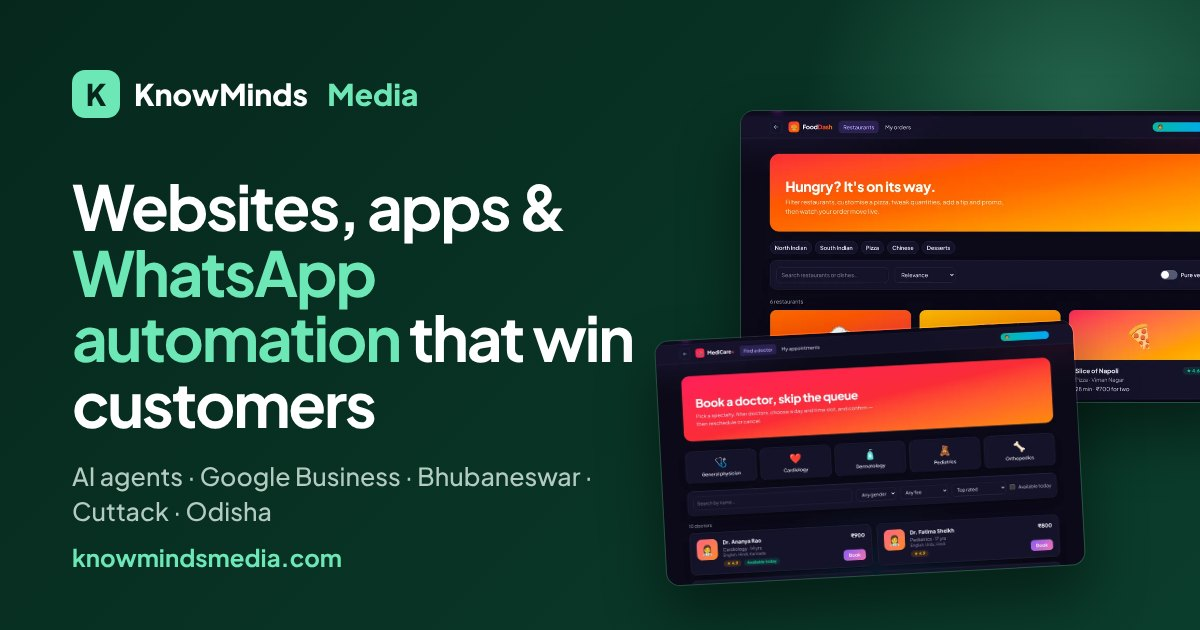
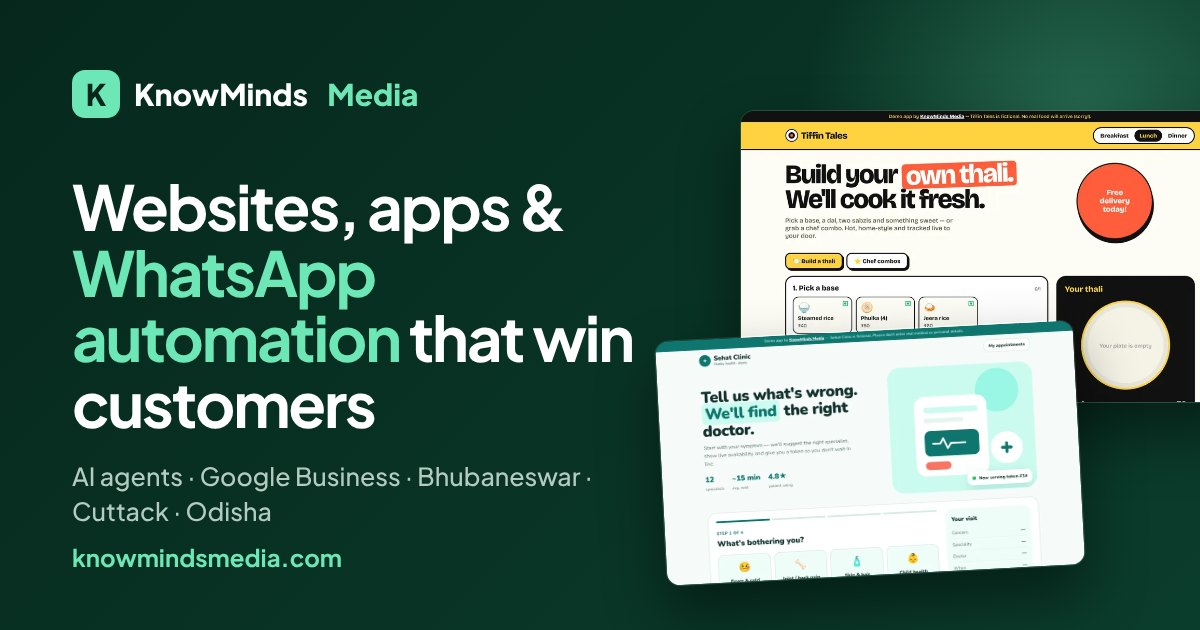
Gallery: link 12 new demo apps on subdomains; new screenshots and share image
Claude-Session: https://claude.ai/code/session_016JypAg9DMv7GkyKqwKCMux

Changed region(s): [[0.5242, 0.181, 1.0, 0.9349]]

diff --git a/index.html b/index.html
@@ -73,8 +73,8 @@
     </ul>
   </div>
   <div class="collage" id="collage">
-    <div class="shot s1"><img src="/img/food.webp" alt="Food ordering web app built by KnowMinds Media" width="960" height="561" fetchpriority="high"></div>
-    <div class="shot s2"><img src="/img/clinic.webp" alt="Doctor appointment booking app built by KnowMinds Media" width="960" height="561"></div>
+    <div class="shot s1"><img src="/img/p-food.webp" alt="Tiffin Tales food ordering demo app by KnowMinds Media" width="960" height="561" fetchpriority="high"></div>
+    <div class="shot s2"><img src="/img/p-clinic.webp" alt="Sehat Clinic appointment booking demo app by KnowMinds Media" width="960" height="561"></div>
     <div class="badge"><b>24×7</b><small>enquiries<br>answered</small></div>
     <div class="toast" aria-hidden="true"><span class="tick">✓</span><span class="toast-txt">New booking confirmed</span></div>
   </div>
@@ -116,59 +116,59 @@
     <div class="feature-top">
       <div>
         <span class="label">Project gallery</span>
-        <h3>12 of our web app projects — click any to take a closer look</h3>
-        <p class="desc">Booking, search, ordering and dashboard apps across healthcare, real estate, restaurants, retail, travel and more.</p>
+        <h3>12 live demo apps — click any to try it</h3>
+        <p class="desc">Each one is a working app with its own design and flow — book, order, pay, track. Open any of them and try it yourself.</p>
       </div>
     </div>
     <div class="apps">
-      <button type="button" class="app" data-preview>
-        <div class="pic"><img src="/img/clinic.webp" alt="MediCare+ — Doctor appointment booking" loading="lazy" width="960" height="561"></div>
-        <div class="meta"><div><span class="ptag">Healthcare</span><h4>MediCare+</h4><small>Doctor appointment booking</small></div><span class="go"><svg viewBox="0 0 24 24" fill="none" stroke="currentColor" stroke-width="2.4" stroke-linecap="round" stroke-linejoin="round"><path d="M7 17 17 7M8 7h9v9"/></svg></span></div>
-      </button>
-      <button type="button" class="app" data-preview>
-        <div class="pic"><img src="/img/realestate.webp" alt="HomeNest — Property search, EMI & visit booking" loading="lazy" width="960" height="561"></div>
-        <div class="meta"><div><span class="ptag">Real estate</span><h4>HomeNest</h4><small>Property search, EMI & visit booking</small></div><span class="go"><svg viewBox="0 0 24 24" fill="none" stroke="currentColor" stroke-width="2.4" stroke-linecap="round" stroke-linejoin="round"><path d="M7 17 17 7M8 7h9v9"/></svg></span></div>
-      </button>
-      <button type="button" class="app" data-preview>
-        <div class="pic"><img src="/img/food.webp" alt="FoodDash — Food ordering with live order status" loading="lazy" width="960" height="561"></div>
-        <div class="meta"><div><span class="ptag">Restaurants</span><h4>FoodDash</h4><small>Food ordering with live order status</small></div><span class="go"><svg viewBox="0 0 24 24" fill="none" stroke="currentColor" stroke-width="2.4" stroke-linecap="round" stroke-linejoin="round"><path d="M7 17 17 7M8 7h9v9"/></svg></span></div>
-      </button>
-      <button type="button" class="app" data-preview>
-        <div class="pic"><img src="/img/shop.webp" alt="Nova Shop — Online store with cart & checkout" loading="lazy" width="960" height="561"></div>
-        <div class="meta"><div><span class="ptag">E-commerce</span><h4>Nova Shop</h4><small>Online store with cart & checkout</small></div><span class="go"><svg viewBox="0 0 24 24" fill="none" stroke="currentColor" stroke-width="2.4" stroke-linecap="round" stroke-linejoin="round"><path d="M7 17 17 7M8 7h9v9"/></svg></span></div>
-      </button>
-      <button type="button" class="app" data-preview>
-        <div class="pic"><img src="/img/hotel.webp" alt="StayEase — Hotel search & room booking" loading="lazy" width="960" height="561"></div>
-        <div class="meta"><div><span class="ptag">Hospitality</span><h4>StayEase</h4><small>Hotel search & room booking</small></div><span class="go"><svg viewBox="0 0 24 24" fill="none" stroke="currentColor" stroke-width="2.4" stroke-linecap="round" stroke-linejoin="round"><path d="M7 17 17 7M8 7h9v9"/></svg></span></div>
-      </button>
-      <button type="button" class="app" data-preview>
-        <div class="pic"><img src="/img/bank.webp" alt="TrustBank — Net banking, transfers & statements" loading="lazy" width="960" height="561"></div>
-        <div class="meta"><div><span class="ptag">Banking</span><h4>TrustBank</h4><small>Net banking, transfers & statements</small></div><span class="go"><svg viewBox="0 0 24 24" fill="none" stroke="currentColor" stroke-width="2.4" stroke-linecap="round" stroke-linejoin="round"><path d="M7 17 17 7M8 7h9v9"/></svg></span></div>
-      </button>
-      <button type="button" class="app" data-preview>
-        <div class="pic"><img src="/img/pharmacy.webp" alt="MediKart — Medicine search & prescription orders" loading="lazy" width="960" height="561"></div>
-        <div class="meta"><div><span class="ptag">Pharmacy</span><h4>MediKart</h4><small>Medicine search & prescription orders</small></div><span class="go"><svg viewBox="0 0 24 24" fill="none" stroke="currentColor" stroke-width="2.4" stroke-linecap="round" stroke-linejoin="round"><path d="M7 17 17 7M8 7h9v9"/></svg></span></div>
-      </button>
-      <button type="button" class="app" data-preview>
-        <div class="pic"><img src="/img/crm.webp" alt="SalesPulse — Leads table & sales pipeline" loading="lazy" width="960" height="561"></div>
-        <div class="meta"><div><span class="ptag">CRM</span><h4>SalesPulse</h4><small>Leads table & sales pipeline</small></div><span class="go"><svg viewBox="0 0 24 24" fill="none" stroke="currentColor" stroke-width="2.4" stroke-linecap="round" stroke-linejoin="round"><path d="M7 17 17 7M8 7h9v9"/></svg></span></div>
-      </button>
-      <button type="button" class="app" data-preview>
-        <div class="pic"><img src="/img/lms.webp" alt="LearnHub — Online courses, quizzes & certificates" loading="lazy" width="960" height="561"></div>
-        <div class="meta"><div><span class="ptag">Education</span><h4>LearnHub</h4><small>Online courses, quizzes & certificates</small></div><span class="go"><svg viewBox="0 0 24 24" fill="none" stroke="currentColor" stroke-width="2.4" stroke-linecap="round" stroke-linejoin="round"><path d="M7 17 17 7M8 7h9v9"/></svg></span></div>
-      </button>
-      <button type="button" class="app" data-preview>
-        <div class="pic"><img src="/img/flights.webp" alt="SkyWays — Flight search, seats & booking" loading="lazy" width="960" height="561"></div>
-        <div class="meta"><div><span class="ptag">Travel</span><h4>SkyWays</h4><small>Flight search, seats & booking</small></div><span class="go"><svg viewBox="0 0 24 24" fill="none" stroke="currentColor" stroke-width="2.4" stroke-linecap="round" stroke-linejoin="round"><path d="M7 17 17 7M8 7h9v9"/></svg></span></div>
-      </button>
-      <button type="button" class="app" data-preview>
-        <div class="pic"><img src="/img/ride.webp" alt="RideGo — Cab booking with live ride status" loading="lazy" width="960" height="561"></div>
-        <div class="meta"><div><span class="ptag">Transport</span><h4>RideGo</h4><small>Cab booking with live ride status</small></div><span class="go"><svg viewBox="0 0 24 24" fill="none" stroke="currentColor" stroke-width="2.4" stroke-linecap="round" stroke-linejoin="round"><path d="M7 17 17 7M8 7h9v9"/></svg></span></div>
-      </button>
-      <button type="button" class="app" data-preview>
-        <div class="pic"><img src="/img/events.webp" alt="EventHive — Event tickets with QR passes" loading="lazy" width="960" height="561"></div>
-        <div class="meta"><div><span class="ptag">Events</span><h4>EventHive</h4><small>Event tickets with QR passes</small></div><span class="go"><svg viewBox="0 0 24 24" fill="none" stroke="currentColor" stroke-width="2.4" stroke-linecap="round" stroke-linejoin="round"><path d="M7 17 17 7M8 7h9v9"/></svg></span></div>
-      </button>
+      <a class="app" href="https://shop.knowmindsmedia.com/" target="_blank" rel="noopener">
+        <div class="pic"><img src="/img/p-shop.webp" alt="Kalinga Bazaar — Online store with cart, coupons & checkout" loading="lazy" width="960" height="561"></div>
+        <div class="meta"><div><span class="ptag">E-commerce</span><h4>Kalinga Bazaar</h4><small>Online store with cart, coupons & checkout</small></div><span class="go"><svg viewBox="0 0 24 24" fill="none" stroke="currentColor" stroke-width="2.4" stroke-linecap="round" stroke-linejoin="round"><path d="M7 17 17 7M8 7h9v9"/></svg></span></div>
+      </a>
+      <a class="app" href="https://clinic.knowmindsmedia.com/" target="_blank" rel="noopener">
+        <div class="pic"><img src="/img/p-clinic.webp" alt="Sehat Clinic — Symptom-first booking with live token queue" loading="lazy" width="960" height="561"></div>
+        <div class="meta"><div><span class="ptag">Healthcare</span><h4>Sehat Clinic</h4><small>Symptom-first booking with live token queue</small></div><span class="go"><svg viewBox="0 0 24 24" fill="none" stroke="currentColor" stroke-width="2.4" stroke-linecap="round" stroke-linejoin="round"><path d="M7 17 17 7M8 7h9v9"/></svg></span></div>
+      </a>
+      <a class="app" href="https://homes.knowmindsmedia.com/" target="_blank" rel="noopener">
+        <div class="pic"><img src="/img/p-homes.webp" alt="Ghar Finder — Guided search, compare tray & EMI calculator" loading="lazy" width="960" height="561"></div>
+        <div class="meta"><div><span class="ptag">Real estate</span><h4>Ghar Finder</h4><small>Guided search, compare tray & EMI calculator</small></div><span class="go"><svg viewBox="0 0 24 24" fill="none" stroke="currentColor" stroke-width="2.4" stroke-linecap="round" stroke-linejoin="round"><path d="M7 17 17 7M8 7h9v9"/></svg></span></div>
+      </a>
+      <a class="app" href="https://food.knowmindsmedia.com/" target="_blank" rel="noopener">
+        <div class="pic"><img src="/img/p-food.webp" alt="Tiffin Tales — Build-your-own thali & live delivery tracker" loading="lazy" width="960" height="561"></div>
+        <div class="meta"><div><span class="ptag">Restaurants</span><h4>Tiffin Tales</h4><small>Build-your-own thali & live delivery tracker</small></div><span class="go"><svg viewBox="0 0 24 24" fill="none" stroke="currentColor" stroke-width="2.4" stroke-linecap="round" stroke-linejoin="round"><path d="M7 17 17 7M8 7h9v9"/></svg></span></div>
+      </a>
+      <a class="app" href="https://stays.knowmindsmedia.com/" target="_blank" rel="noopener">
+        <div class="pic"><img src="/img/p-stays.webp" alt="Konark Stays — Experience-first hotel booking with voucher" loading="lazy" width="960" height="561"></div>
+        <div class="meta"><div><span class="ptag">Hospitality</span><h4>Konark Stays</h4><small>Experience-first hotel booking with voucher</small></div><span class="go"><svg viewBox="0 0 24 24" fill="none" stroke="currentColor" stroke-width="2.4" stroke-linecap="round" stroke-linejoin="round"><path d="M7 17 17 7M8 7h9v9"/></svg></span></div>
+      </a>
+      <a class="app" href="https://banks.knowmindsmedia.com/" target="_blank" rel="noopener">
+        <div class="pic"><img src="/img/p-banks.webp" alt="Kosha Bank — MPIN login, payments & spending insights" loading="lazy" width="960" height="561"></div>
+        <div class="meta"><div><span class="ptag">Banking</span><h4>Kosha Bank</h4><small>MPIN login, payments & spending insights</small></div><span class="go"><svg viewBox="0 0 24 24" fill="none" stroke="currentColor" stroke-width="2.4" stroke-linecap="round" stroke-linejoin="round"><path d="M7 17 17 7M8 7h9v9"/></svg></span></div>
+      </a>
+      <a class="app" href="https://pharmacy.knowmindsmedia.com/" target="_blank" rel="noopener">
+        <div class="pic"><img src="/img/p-pharmacy.webp" alt="Aushadh Plus — Prescription upload, generics & refill reminders" loading="lazy" width="960" height="561"></div>
+        <div class="meta"><div><span class="ptag">Pharmacy</span><h4>Aushadh Plus</h4><small>Prescription upload, generics & refill reminders</small></div><span class="go"><svg viewBox="0 0 24 24" fill="none" stroke="currentColor" stroke-width="2.4" stroke-linecap="round" stroke-linejoin="round"><path d="M7 17 17 7M8 7h9v9"/></svg></span></div>
+      </a>
+      <a class="app" href="https://crm.knowmindsmedia.com/" target="_blank" rel="noopener">
+        <div class="pic"><img src="/img/p-crm.webp" alt="LeadLoop CRM — Drag-and-drop pipeline & lead timeline" loading="lazy" width="960" height="561"></div>
+        <div class="meta"><div><span class="ptag">CRM</span><h4>LeadLoop CRM</h4><small>Drag-and-drop pipeline & lead timeline</small></div><span class="go"><svg viewBox="0 0 24 24" fill="none" stroke="currentColor" stroke-width="2.4" stroke-linecap="round" stroke-linejoin="round"><path d="M7 17 17 7M8 7h9v9"/></svg></span></div>
+      </a>
+      <a class="app" href="https://learn.knowmindsmedia.com/" target="_blank" rel="noopener">
+        <div class="pic"><img src="/img/p-learn.webp" alt="Gyan Path — Lessons, timed quiz & downloadable certificate" loading="lazy" width="960" height="561"></div>
+        <div class="meta"><div><span class="ptag">Education</span><h4>Gyan Path</h4><small>Lessons, timed quiz & downloadable certificate</small></div><span class="go"><svg viewBox="0 0 24 24" fill="none" stroke="currentColor" stroke-width="2.4" stroke-linecap="round" stroke-linejoin="round"><path d="M7 17 17 7M8 7h9v9"/></svg></span></div>
+      </a>
+      <a class="app" href="https://flights.knowmindsmedia.com/" target="_blank" rel="noopener">
+        <div class="pic"><img src="/img/p-flights.webp" alt="Aakash Trips — Fare calendar, seat map & boarding pass" loading="lazy" width="960" height="561"></div>
+        <div class="meta"><div><span class="ptag">Travel</span><h4>Aakash Trips</h4><small>Fare calendar, seat map & boarding pass</small></div><span class="go"><svg viewBox="0 0 24 24" fill="none" stroke="currentColor" stroke-width="2.4" stroke-linecap="round" stroke-linejoin="round"><path d="M7 17 17 7M8 7h9v9"/></svg></span></div>
+      </a>
+      <a class="app" href="https://rides.knowmindsmedia.com/" target="_blank" rel="noopener">
+        <div class="pic"><img src="/img/p-rides.webp" alt="Sawari — Live route map, driver tracking & OTP" loading="lazy" width="960" height="561"></div>
+        <div class="meta"><div><span class="ptag">Transport</span><h4>Sawari</h4><small>Live route map, driver tracking & OTP</small></div><span class="go"><svg viewBox="0 0 24 24" fill="none" stroke="currentColor" stroke-width="2.4" stroke-linecap="round" stroke-linejoin="round"><path d="M7 17 17 7M8 7h9v9"/></svg></span></div>
+      </a>
+      <a class="app" href="https://events.knowmindsmedia.com/" target="_blank" rel="noopener">
+        <div class="pic"><img src="/img/p-events.webp" alt="Utsav Passes — Ticket tiers, QR passes & add to calendar" loading="lazy" width="960" height="561"></div>
+        <div class="meta"><div><span class="ptag">Events</span><h4>Utsav Passes</h4><small>Ticket tiers, QR passes & add to calendar</small></div><span class="go"><svg viewBox="0 0 24 24" fill="none" stroke="currentColor" stroke-width="2.4" stroke-linecap="round" stroke-linejoin="round"><path d="M7 17 17 7M8 7h9v9"/></svg></span></div>
+      </a>
     </div>
   </div>
 
@@ -367,16 +367,6 @@
   <div><h4>Company</h4><ul><li><a href="/#work">Our work</a></li><li><a href="/#services">Services</a></li><li><a href="/#automation">Automation</a></li><li><a href="/#process">How we work</a></li><li><a href="/contact.html">Contact</a></li></ul></div>
   <div><h4>Legal</h4><ul><li><a href="/privacy-policy.html">Privacy Policy</a></li><li><a href="/terms.html">Terms of Service</a></li></ul></div>
 </div><div class="copy">© 2026 KnowMinds Media. All rights reserved.</div></div></footer>
-<dialog class="pv" id="pv" aria-labelledby="pv-title">
-  <div class="pv-box">
-    <button class="pv-x" type="button" aria-label="Close preview">✕</button>
-    <div class="pv-img"><img alt="" width="960" height="561"></div>
-    <div class="pv-meta">
-      <div><span class="ptag pv-tag"></span><h3 id="pv-title"></h3><p class="pv-desc"></p></div>
-      <a class="btn" href="#demo" data-close>Get an app like this</a>
-    </div>
-  </div>
-</dialog>
 <script src="/script.js" defer></script>
 <!--/FOOTER-->
 </body>
